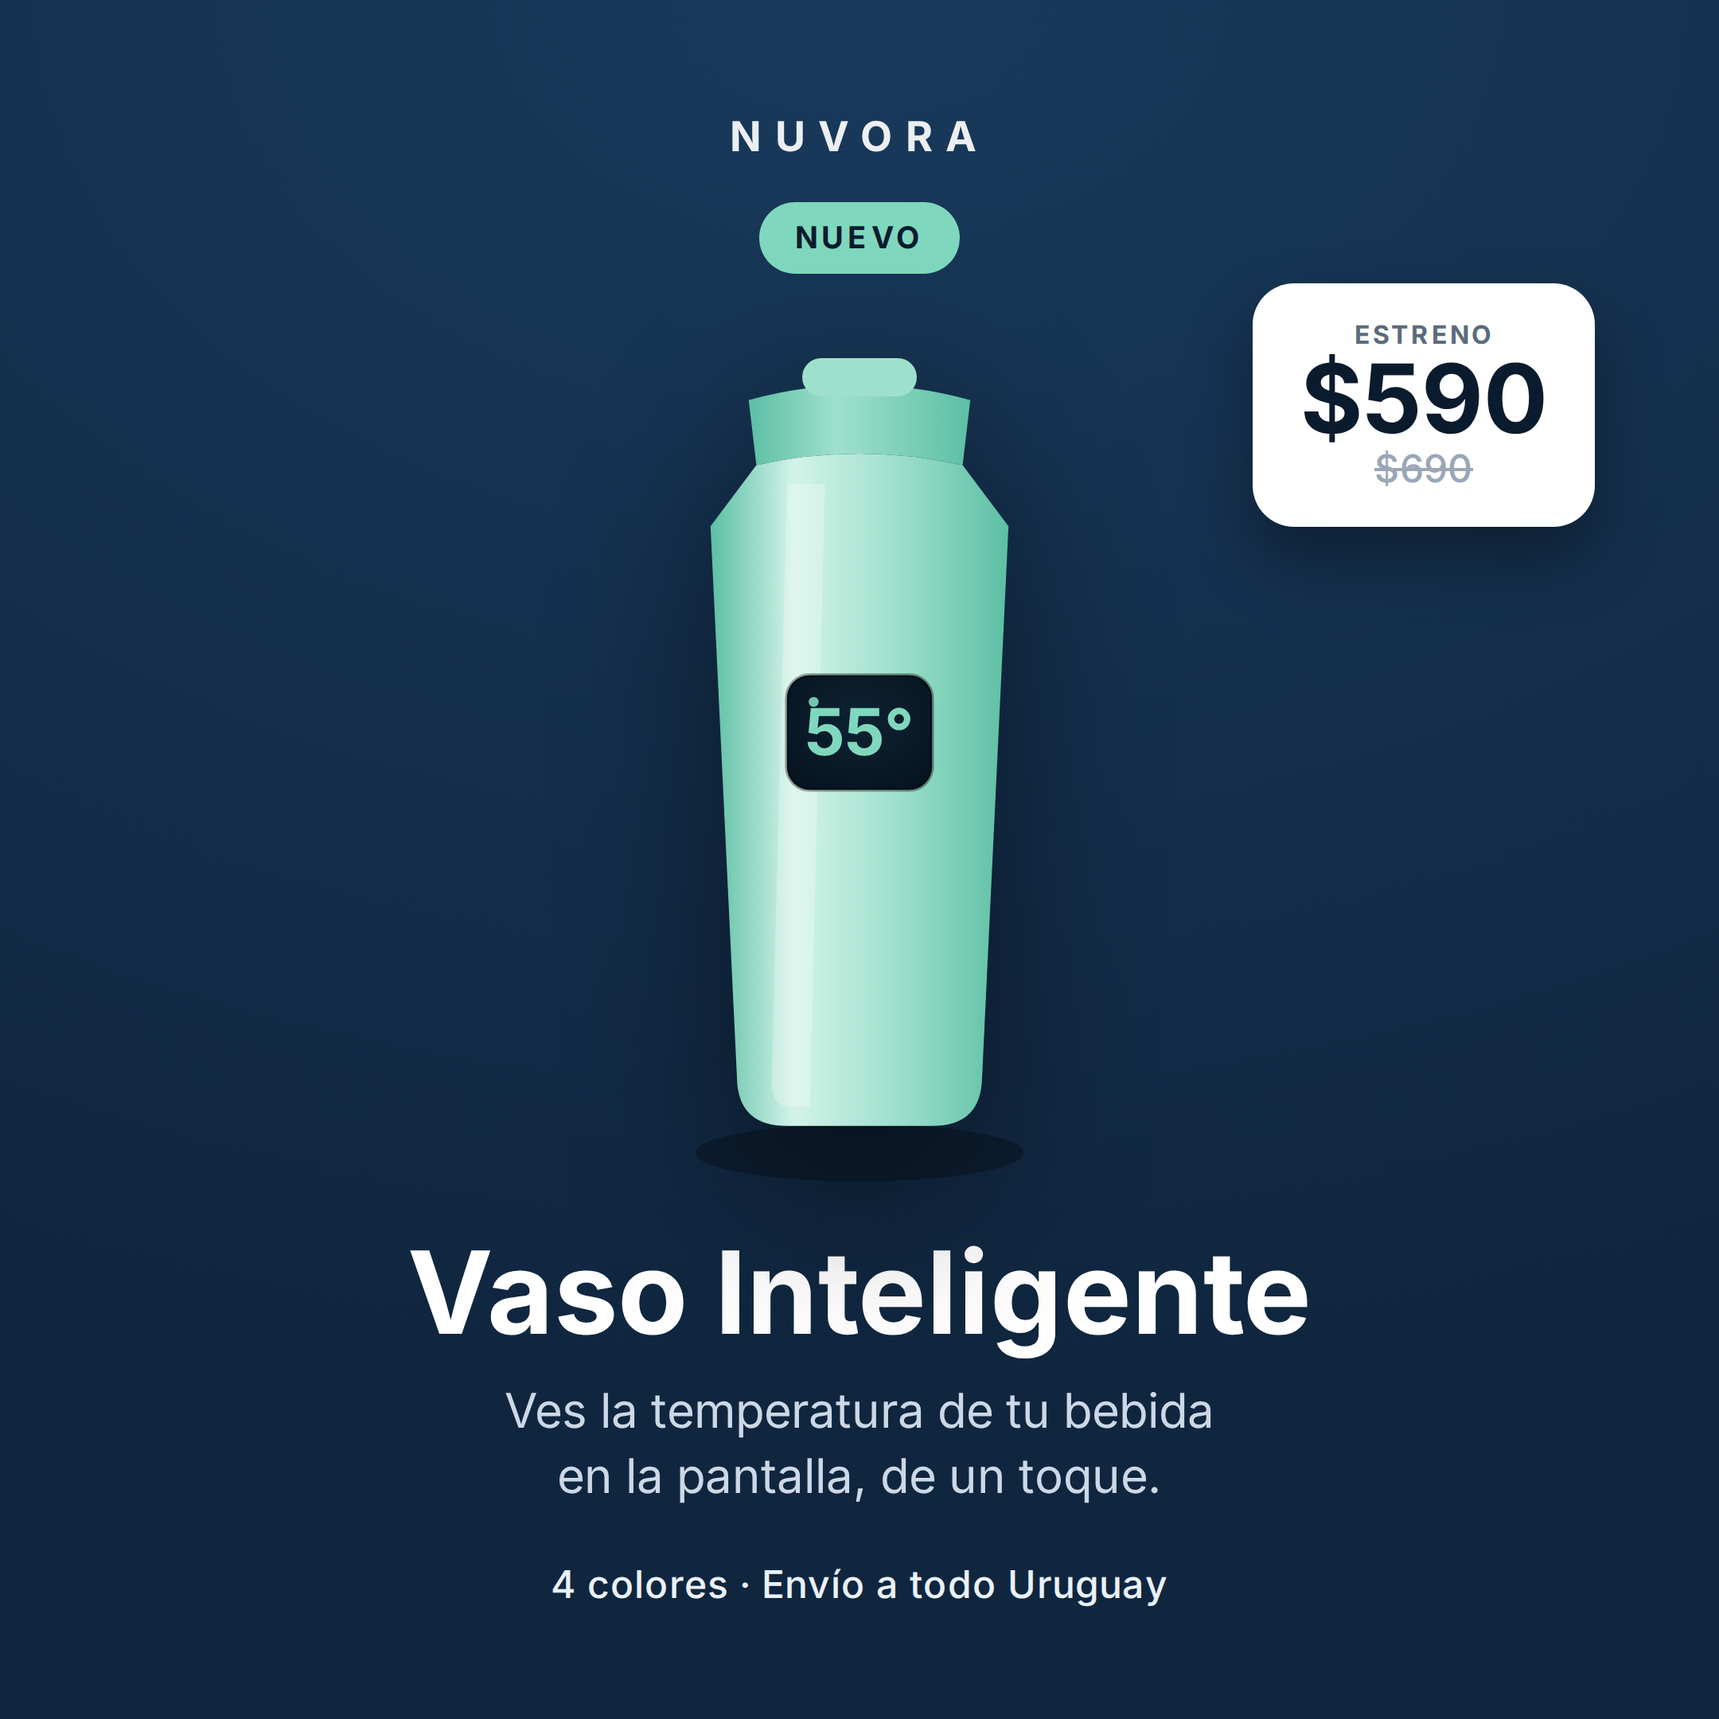
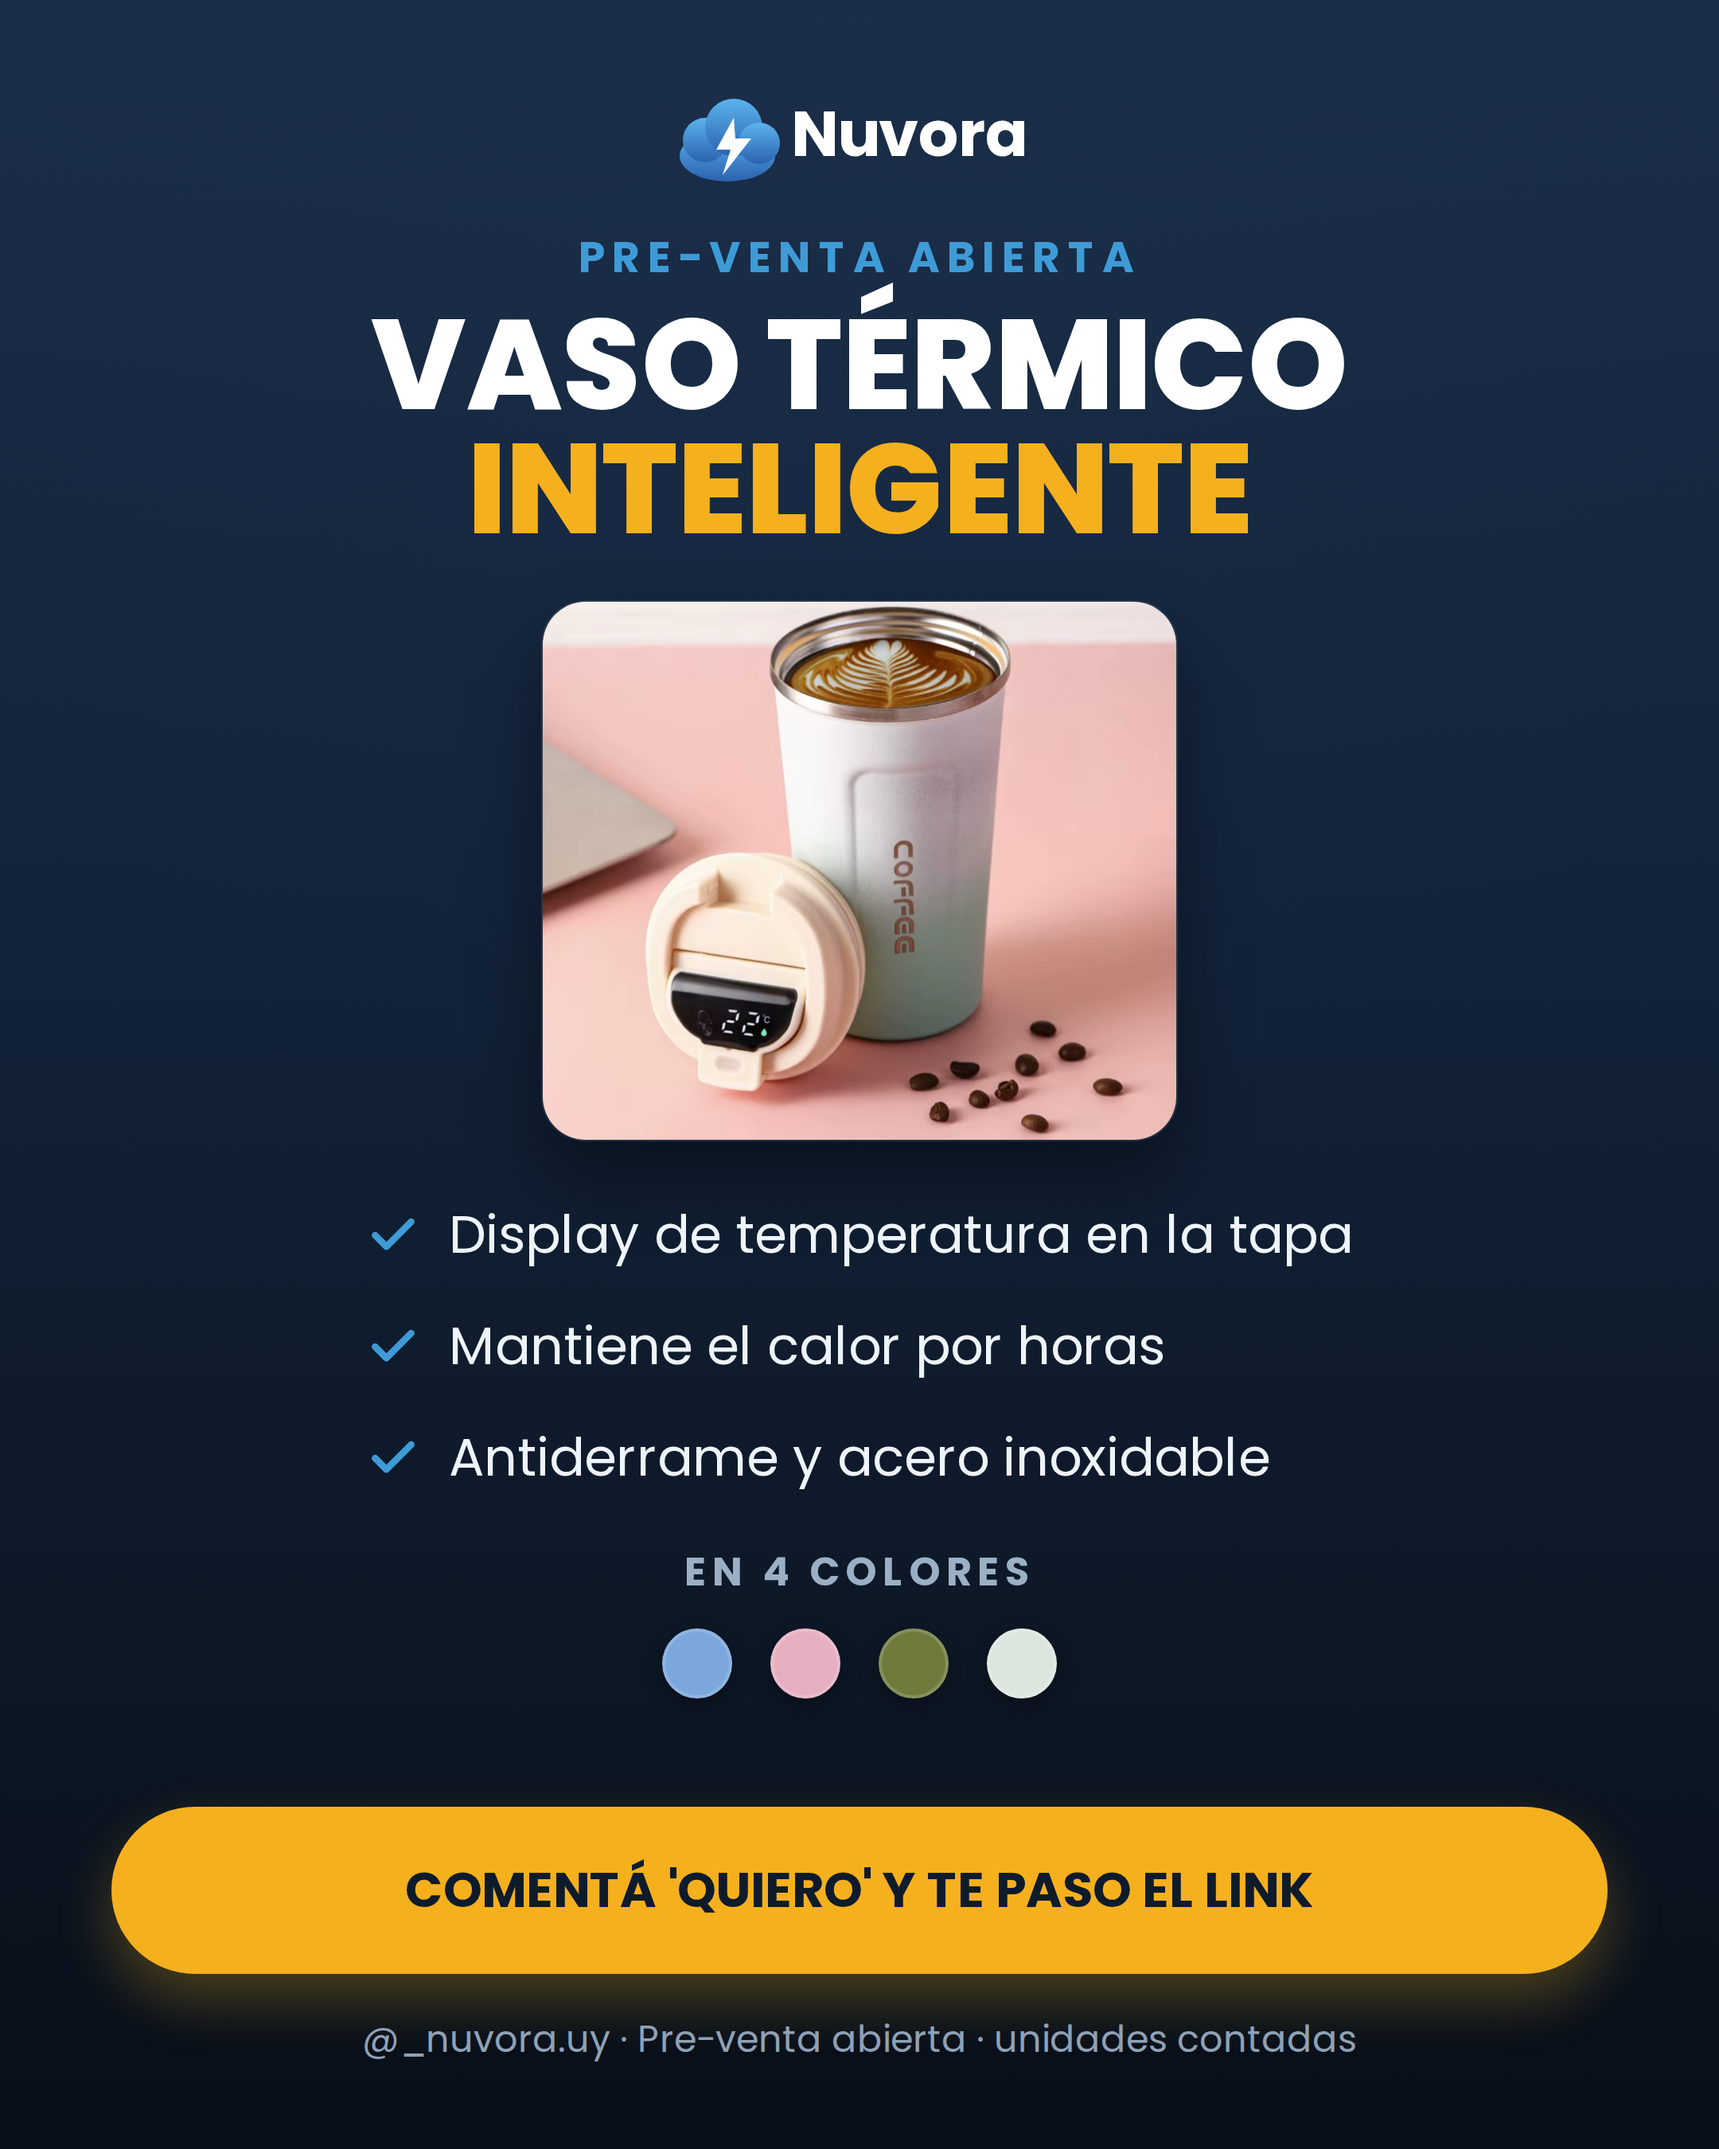
Rehacer imagenes de lanzamiento con estilo real de Nuvora y fotos del producto
- 5 PNG nuevos (feed 1080x1350 + historias 1080x1920) con paleta ambar/azul, Poppins,
  logo nube+rayo y las fotos reales del Vaso Termico Inteligente incrustadas
- Contenido feed e historias reescrito: funnel 'QUIERO' + historia de precio/codigo ESTRENO
- PEDIDOS.md: nombre real del producto y colores (azul/rosa/verde oliva/blanco)
- DESIGN.nuvora.md: documentada la identidad visual aplicada en redes (navy+ambar+azul, Poppins)

Claude-Session: https://claude.ai/code/session_01XvvtFB8ytivNYnPHbJMN91

diff --git a/contenido/instagram/vaso-inteligente-lanzamiento.md b/contenido/instagram/vaso-inteligente-lanzamiento.md
@@ -1,99 +1,65 @@
-# Instagram — Lanzamiento Vaso Inteligente
+# Instagram Feed — Lanzamiento Vaso Térmico Inteligente
 
-> Sigue el branding de `DESIGN.nuvora.md`: voseo uruguayo, frases cortas (una idea por línea),
-> tono profesional + cercano, sin superlativos vacíos, sin exagerar emojis.
-> Paleta: navy `#193A5C` de fondo, texto blanco, foto de producto recortada.
-> Producto asumido: vaso con display LED de temperatura, 4 colores. Confirmar specs reales antes de publicar.
-
----
-
-## Post 1 — Portada de lanzamiento (formato ficha de producto, plantilla Nuvora)
-
-**Visual:** fondo navy `#193A5C`. Isotipo Nuvora arriba centrado. Vaso recortado en el centro (el color que mejor rinda en foto). Badge de precio en una esquina: "$590 · estreno" (PVP $690).
-
-**Caption:**
-```
-Nuevo en Nuvora: el Vaso Inteligente.
-
-Ves la temperatura de tu bebida de un toque, en la pantalla del vaso.
-Sin apps, sin complicarte.
-
-Disponible en 4 colores.
-Envío a todo Uruguay.
-
-Pedilo por WhatsApp: +598 92428556
-```
+> Estilo Nuvora real (redes): fondo navy con degradé, acento **ámbar `#F5B01E`** + **azul `#3E9BD6`**,
+> tipografía **Poppins**, logo nube+rayo. Voseo uruguayo, frases cortas.
+> Producto: Vaso Térmico Inteligente (mug de acero con display de temperatura en la tapa), 4 colores.
+> Enfoque: **pre-venta con funnel de comentario** ("Comentá QUIERO"). Precio en historia aparte.
+> Imágenes en `contenido/instagram/img/`.
 
 ---
 
-## Post 2 — Los 4 colores (carrusel / grilla)
+## Post 1 — Lanzamiento (imagen: `vaso-1-feed-lanzamiento.png`)
 
-**Visual:** los 4 vasos alineados sobre fondo navy, cada uno con su nombre de color debajo. Última slide: los 4 juntos con "Elegí el tuyo".
+Foto hero (vaso blanco/menta + tapa con display "22°"), checklist de beneficios, 4 colores, CTA de comentario.
 
 **Caption:**
 ```
-Cuatro colores. Un solo vaso inteligente.
+Pre-venta abierta: Vaso Térmico Inteligente.
 
-Elegí el que va con vos.
-Stock limitado en esta primera tanda.
+Ves la temperatura de tu bebida en la pantalla de la tapa.
+Mantiene el calor por horas, es antiderrame y de acero inoxidable.
 
-Envío a todo Uruguay.
+Disponible en 4 colores. Unidades contadas.
+
+Comentá 'QUIERO' y te paso el link.
 ```
 
 ---
 
-## Post 3 — Beneficios (formato ficha técnica con etiquetas)
+## Post 2 — Los 4 colores (imagen: `vaso-2-feed-colores.png`)
 
-**Visual:** foto grande del vaso con etiquetas apuntando a partes: pantalla LED, sensor de temperatura, tapa. Fondo navy.
+Foto de los 4 vasos juntos + nombres de color.
 
 **Caption:**
 ```
-Por qué te va a gustar:
+Un vaso, cuatro colores: azul, rosa, verde oliva y blanco.
 
-Display de temperatura al instante.
-Cuatro colores para elegir.
-Diseño simple, para el día a día.
+Elegí el tuyo antes de que se agote la pre-venta.
 
-Innovación en tus manos.
+Comentá tu color y te paso el link.
 ```
 
 ---
 
-## Post 4 — Formato "VS" (uso cotidiano)
+## Post 3 — Beneficios / el display (imagen: `vaso-3-feed-beneficios.png`)
 
-**Visual:** split de pantalla. Izquierda (problema): "¿Está muy caliente? ¿Ya se enfrió?" con vaso común. Derecha (solución): vaso inteligente Nuvora mostrando la temperatura. Franja inferior con la promesa.
-
-**Caption:**
-```
-Adivinar la temperatura vs. verla en pantalla.
-
-Con el Vaso Inteligente ya sabés antes del primer sorbo.
-
-Envío a todo Uruguay. Devoluciones sin problemas.
-```
-
----
-
-## Post 5 — Institucional / fijar en el perfil (catálogo)
-
-**Visual:** los 4 vasos alrededor del isotipo Nuvora. Nombre de marca + sitio web grande. Barra de contacto al pie: WhatsApp, Instagram, Facebook.
+Primer plano de la tapa con el display encendido.
 
 **Caption:**
 ```
-Vaso Inteligente, ya disponible en Nuvora.
+El detalle que enamora: la temperatura en la tapa.
 
-4 colores.
-Envío a todo Uruguay.
-Soporte real.
+Un toque y sabés si tu café está listo para tomar.
+Sin apps. Sin adivinar.
 
-Escribinos: WhatsApp +598 92428556
+Vaso Térmico Inteligente · 4 colores · Envío a todo Uruguay.
 ```
 
 ---
 
 ## Notas para el feed
 
-- **Orden de publicación sugerido:** Post 1 (lanzamiento) → Post 2 (colores) → Post 3 (beneficios) → Post 4 (VS) → Post 5 (fijar en perfil).
-- **Precio en los posts:** PVP $690. En lanzamiento, badge "$590 · precio de estreno" y mencioná el código `ESTRENO` (-$100) en el caption.
-- **Reseñas:** no uses testimonios de muestra. Recién cuando tengas ventas reales sumá un post con reseña verdadera.
-- **Confirmar antes de publicar:** modelo/specs reales del vaso y los nombres de los 4 colores.
+- **Orden sugerido:** Post 1 (lanzamiento) → Post 2 (colores) → Post 3 (display/beneficios).
+- **Funnel:** el CTA es "Comentá 'QUIERO'/tu color". Cuando comenten, respondés por DM con el link + el código de la historia.
+- **Precio:** no va en el feed. El precio de estreno ($590, código `ESTRENO`) vive en las historias (ver `vaso-inteligente-historias.md`).
+- **Reseñas:** no uses testimonios de muestra. Sumá reseñas reales recién cuando tengas ventas.

diff --git a/contenido/instagram/vaso-inteligente-historias.md b/contenido/instagram/vaso-inteligente-historias.md
@@ -1,69 +1,47 @@
-# Instagram Historias — Lanzamiento Vaso Inteligente
+# Instagram Historias — Lanzamiento Vaso Térmico Inteligente
 
-> Formato vertical **9:16**. Fondo navy `#193A5C`, texto blanco (Inter Bold para títulos).
-> Voseo uruguayo, frases cortas, sin emojis. Aprovechá los stickers interactivos de Historias.
-> Producto: Vaso Inteligente con display LED de temperatura, 4 colores. PVP $690 · lanzamiento $590 (código `ESTRENO`).
+> Estilo Nuvora real: navy + ámbar `#F5B01E` + azul `#3E9BD6`, Poppins, logo nube+rayo.
+> Formato 9:16. Voseo, frases cortas. Aprovechá stickers interactivos.
+> Producto: Vaso Térmico Inteligente, 4 colores. PVP $690 · estreno $590 (código `ESTRENO`).
+> Imágenes en `contenido/instagram/img/`.
 
 ---
 
-## Secuencia A — Día de lanzamiento (3 historias)
+## Historia 1 — Reveal / pre-venta (imagen: `vaso-4-historia-reveal.png`)
 
-### Historia A1 — Teaser
-**Visual:** fondo navy, vaso apenas asomando o tapado. Texto grande centrado.
-**Texto en pantalla:**
-```
-Hoy sumamos algo nuevo a Nuvora.
-Deslizá.
-```
-**Sticker:** flecha "deslizá" / o sticker de cuenta regresiva si querés fecha exacta.
+Foto del vaso azul, título grande, CTA "Mandá QUIERO por mensaje".
 
-### Historia A2 — Reveal del producto
-**Visual:** vaso recortado, bien grande, sobre navy. Pantalla LED visible mostrando la temperatura.
-**Texto en pantalla:**
+**Texto/sticker:**
 ```
-Vaso Inteligente.
-Ves la temperatura en la pantalla, de un toque.
-4 colores.
+Pre-venta abierta.
+Display de temperatura en la tapa · 4 colores.
 ```
-**Sticker:** encuesta → "¿Qué color te llevás?" (opciones con los 4 colores reales).
+**Sticker:** caja de preguntas ("¿Qué color querés?") o sticker de link/WhatsApp. Unidades contadas.
 
-### Historia A3 — Oferta + link
-**Visual:** vaso + badge grande "$590 · precio de estreno" (tachado $690 arriba).
-**Texto en pantalla:**
+---
+
+## Historia 2 — Oferta + código (imagen: `vaso-5-historia-oferta.png`)
+
+Foto del producto, precio de estreno $590 (tachado $690), código `ESTRENO`.
+
+**Texto/sticker:**
 ```
-Precio de estreno: $590
+Precio de estreno: $590 (antes $690).
 Código: ESTRENO
 Envío a todo Uruguay.
 ```
-**Sticker:** link a la página del producto (o sticker de WhatsApp +598 92428556).
+**Sticker:** cuenta regresiva al cierre de la promo + sticker de link. WhatsApp +598 92428556.
 
 ---
 
-## Secuencia B — Recordatorio / colores (2 historias)
+## Extra — Historia de colores (podés reusar `vaso-2-feed-colores.png`)
 
-### Historia B1 — Los 4 colores
-**Visual:** los 4 vasos en fila sobre navy.
-**Texto en pantalla:**
-```
-Elegí el tuyo.
-Stock limitado en esta primera tanda.
-```
-**Sticker:** encuesta o "quiz" → "¿Cuál va con vos?"
-
-### Historia B2 — Empujón final
-**Visual:** vaso con la pantalla encendida, primer plano.
-**Texto en pantalla:**
-```
-Todavía estás a tiempo del precio de estreno.
-$590 con el código ESTRENO.
-```
-**Sticker:** cuenta regresiva al cierre de la promo + sticker de link.
+**Sticker:** encuesta con los 4 colores → "¿Cuál te llevás?" (te dice qué color reponer).
 
 ---
 
-## Tips de Historias
+## Tips
 
-- **Destacada fija:** guardá A2, A3 y B1 en una destacada llamada "Vaso" para que quede en el perfil.
-- **Interacción:** usá encuesta o preguntas en al menos una historia — sube el alcance y te dice qué color pedir de nuevo.
-- **Coherencia:** mismo fondo navy y misma tipografía en todas para que se lea como una sola campaña.
-- **Antes de publicar:** confirmá los 4 nombres de color y que el código `ESTRENO` ya esté creado en Shopify.
+- **Destacada fija:** guardá la historia de reveal y la de oferta en una destacada "Vaso" en el perfil.
+- **Funnel:** el feed junta comentarios "QUIERO"; las historias cierran con el precio + código.
+- **Coherencia:** mismo navy, Poppins y acento ámbar en todas para que se lea como una sola campaña.

diff --git a/DESIGN.nuvora.md b/DESIGN.nuvora.md
@@ -35,6 +35,23 @@ Confirma la dirección "azul marino oscuro" que definiste, pero hoy vive únicam
 | Fondo | `#FFFFFF` |
 | Texto | `#000000` |
 
+## Identidad visual aplicada en redes (posts reales)
+
+Además de la paleta base del tema, los posts/anuncios de Nuvora usan una identidad propia más marcada. Documentada acá para mantener consistencia:
+
+| Uso | Hex |
+|---|---|
+| Fondo posts (navy con degradé) | `#1B2E49` → `#122238` → `#090F18` |
+| Acento primario (títulos clave, botón CTA) | `#F5B01E` (ámbar) |
+| Acento secundario (eyebrow, checks, logo) | `#3E9BD6` (azul) |
+| Texto | `#FFFFFF` / muteado `#8FA1B5` |
+
+- **Logo:** isotipo nube + rayo (degradé azul `#5CB3EC`→`#2A62B0`) + "Nuvora".
+- **Tipografía en redes:** **Poppins** (títulos 800, texto 400/600) — más geométrica/redondeada que la Inter del sitio. Mantener Inter para la web, Poppins para las piezas de redes.
+- **Formato producto:** foto real dentro de una tarjeta con esquinas redondeadas sobre el navy.
+- **Funnel de venta:** CTA de comentario ("Comentá 'QUIERO' y te paso el link"), pre-venta / "unidades contadas".
+- Plantillas y piezas del Vaso Térmico Inteligente: `contenido/instagram/`.
+
 ## Tipografía (confirmada en `settings_data.json`)
 
 Fuente: **Inter**, en tres pesos:

diff --git a/PEDIDOS.md b/PEDIDOS.md
@@ -7,7 +7,7 @@ Registro de pedidos de stock (compra a proveedor) y precios de venta.
 ## Pedido #1 — Vaso Inteligente
 
 - **Fecha de registro:** 2026-07-31
-- **Producto:** Vaso Inteligente (asumido: vaso/botella con display LED de temperatura — confirmar modelo exacto)
+- **Producto:** Vaso Térmico Inteligente (mug de acero inoxidable con display LED de temperatura en la tapa, antiderrame, logo "COFFEE")
 - **Cantidad:** 12 unidades → 3 por color, en los 4 colores
 - **Costo unitario:** $180
 - **Costo total del pedido:** $2.160 (12 × $180)
@@ -17,13 +17,13 @@ Registro de pedidos de stock (compra a proveedor) y precios de venta.
 
 | Color | Unidades |
 |---|---|
-| Color 1 (a confirmar) | 3 |
-| Color 2 (a confirmar) | 3 |
-| Color 3 (a confirmar) | 3 |
-| Color 4 (a confirmar) | 3 |
+| Azul (degradé azul→menta) | 3 |
+| Rosa | 3 |
+| Verde oliva | 3 |
+| Blanco/menta | 3 |
 | **Total** | **12** |
 
-> Anotá acá los 4 colores reales cuando los tengas para tener el inventario claro.
+> Colores tomados de las fotos del producto. Si el pedido real trajo otra combinación (ej. crema o grafito), ajustá esta tabla.
 
 ### Análisis de precio de venta
 
